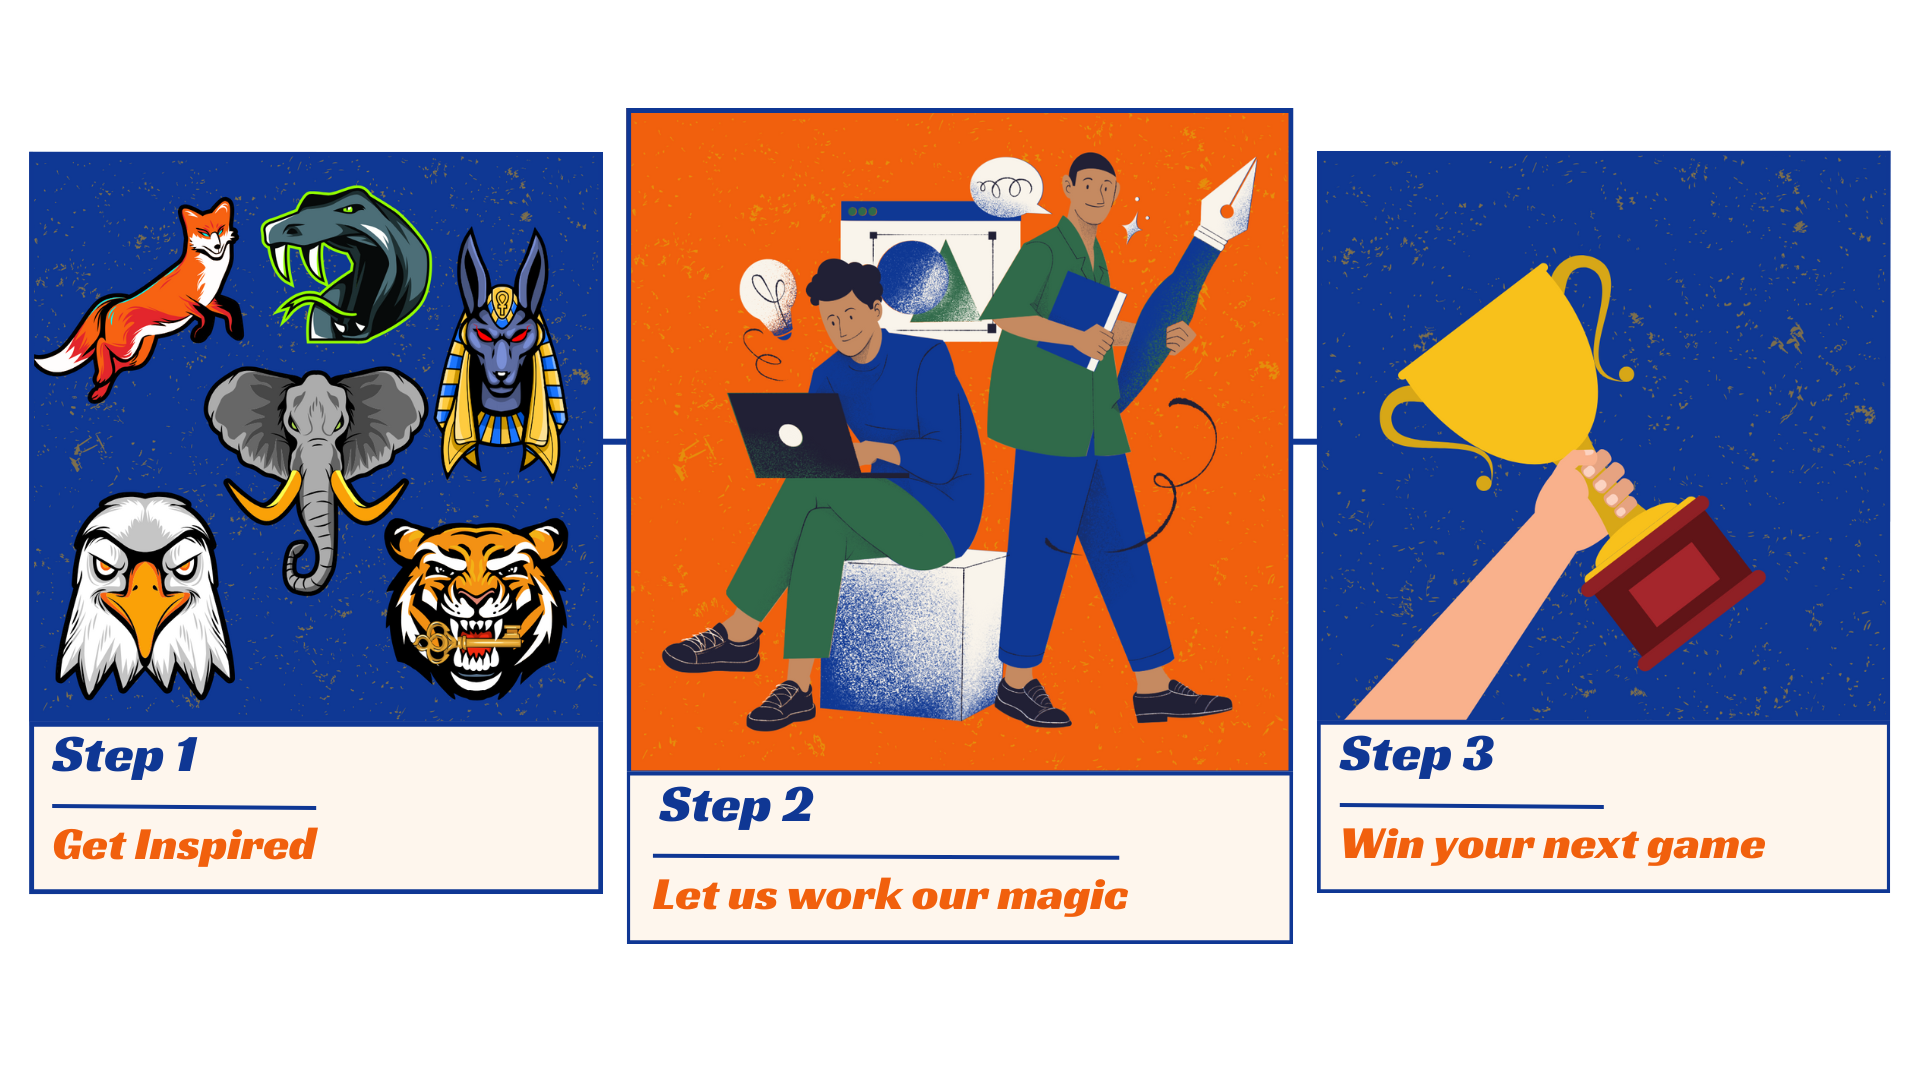
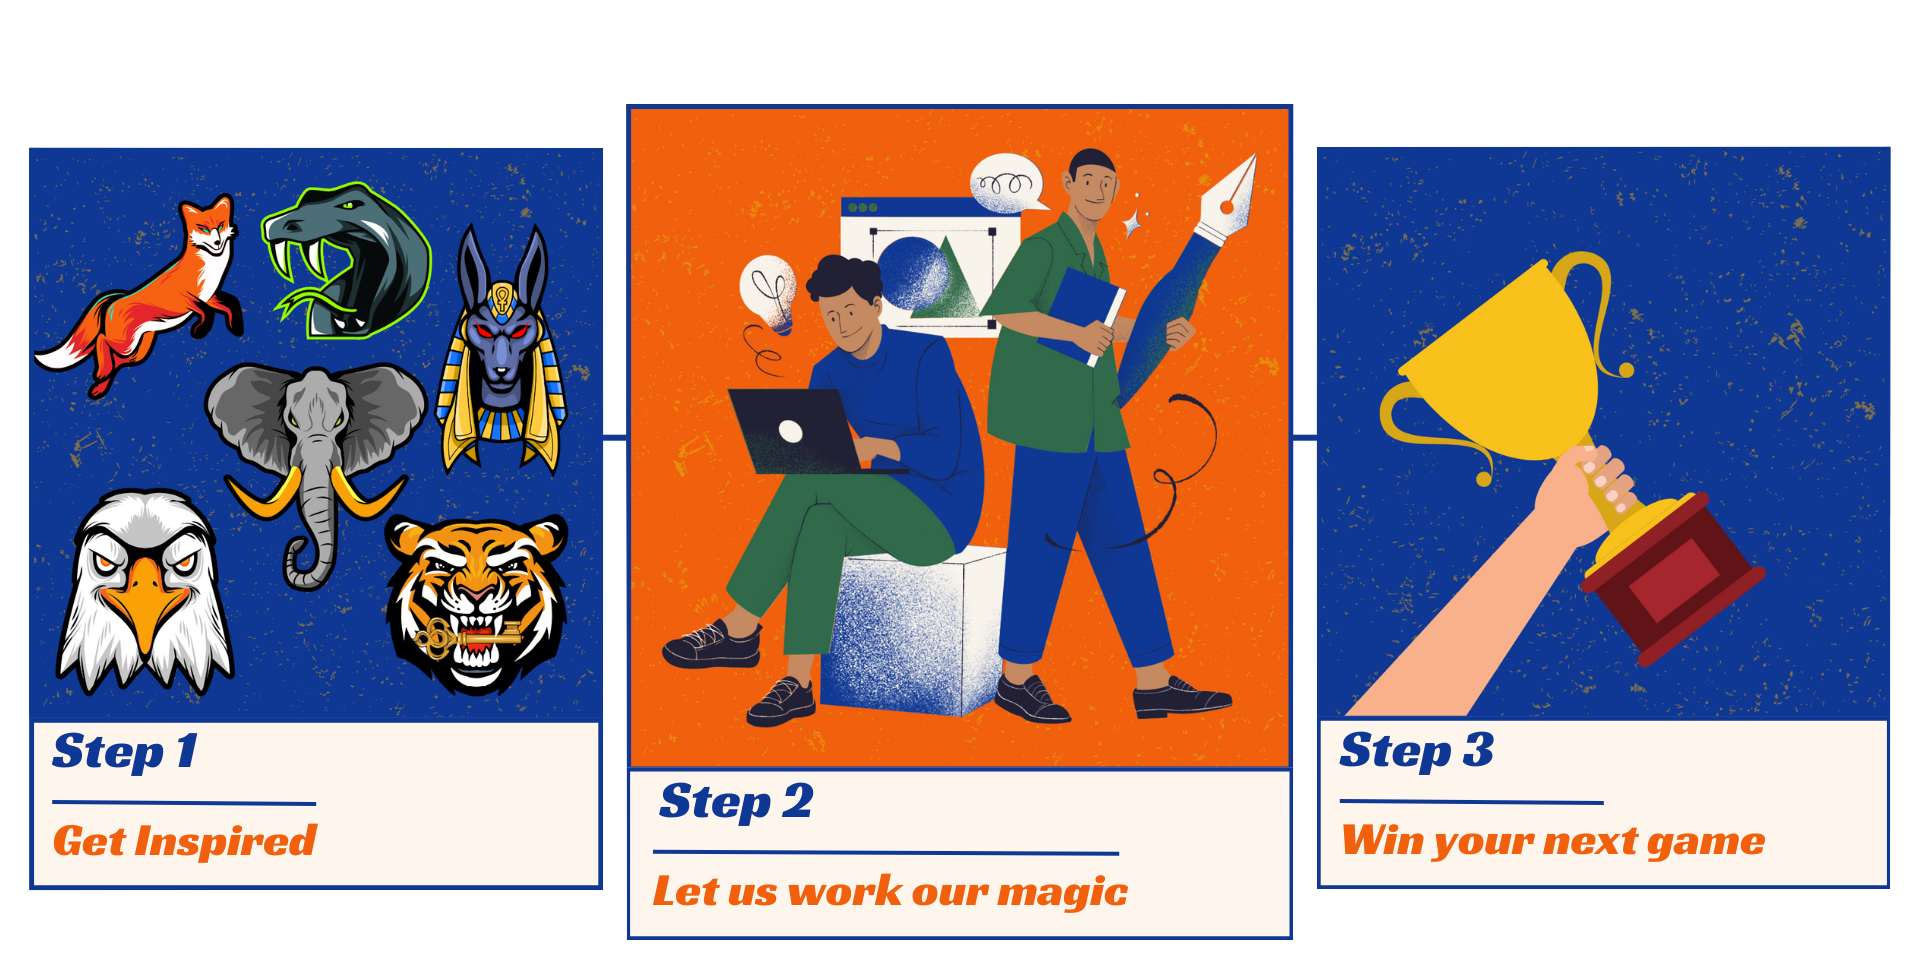
update index 26 maart 22:00

diff --git a/index.html b/index.html
@@ -28,24 +28,14 @@
               <a class="nav-link" href="index.html">Home</a>
             </li>
             <li class="nav-item">
-              <a class="nav-link active" aria-current="page" href="example.html">Example</a>
-            </li>
-            <li class="nav-item dropdown">
-              <a class="nav-link dropdown-toggle" href="#" id="navbarDropdown" role="button" data-bs-toggle="dropdown" aria-expanded="false">
-                UX Patterns
-              </a>
-              <ul class="dropdown-menu" aria-labelledby="navbarDropdown">
-                <li><a class="dropdown-item" href="hero.html">Hero Section</a></li>
-                <li><a class="dropdown-item" href="carousel.html">Carousel</a></li>
-                <li><hr class="dropdown-divider"></li>
-                <li><a class="dropdown-item" href="two-columns.html">Two-column Layout</a></li>
-                <li><a class="dropdown-item" href="cards.html">Cards</a></li>
-              </ul>
             </li>
             <li class="nav-item">
-              <a class="nav-link" href="https://buas-media-interactive.github.io/prj4-guide/" target="_blank">PRJ4 Guide</a>
+              <a class="nav-link" href="https://buas-media-interactive.github.io/prj4-guide/" target="_blank">About us</a>
             </li>
             <li class="nav-item">
+              <a class="nav-link" href="corporate.html">Get inspired</a>
+            </li>
+			   <li class="nav-item">
               <a class="nav-link" href="corporate.html">Corporate</a>
             </li>
           </ul>
@@ -94,71 +84,91 @@
         </div>
     </div>
 	
-	<img src="images/stepst.png"> 
+<img src="images/stepst.png" alt="the steps" class="stepst-img">
+
 	
 	 <div class="container pt-3 pb-2">
       <div class="row justify-content-center">
         <div class="col-12 col-md-10 col-lg-8 col-xl-6 text-center">
 			
-		<br>
-          <h2>Our vision</h2>
+           <h2 class="special-heading" >Our vision</h2>
+			
+			<br>
+			
           <p>
           We Roar, We Score! A team without spirit is just a group of players. That’s where we come in! TeamBeast brings hype, pride, and power, because every club deserves to stand out, loud and proud! &nbsp; </p>
         </div>
       </div>
     </div>
-	  
-	    <!-- Meet the Team -->
-	  <section class="team-section py-5">
+	  <br> <br>  
+	
+	<section class="contact-instagram">
     <div class="container">
-        <h2 class="text-center mb-4">Meet the Team</h2>
+        <a href="https://www.instagram.com/teambeastofficial_" target="_blank" class="instagram-icon">
+            <img src="images/instagram.svg" alt="Instagram">
+        </a>
+        <div class="contact-text">
+            <p>Want to bring your team to the next level?</p>
+            <p>DM us on Instagram!</p>
+        </div>
+    </div>
+</section>
+	
+	    <!-- Meet the Team -->
+<section class="team-section py-5">
+    <div class="container">
+        <h2 class="special-heading">Meet the Team</h2>
+		<br>
         <div class="row">
 
             <!-- Team Member 1 -->
             <div class="col-lg-3 col-md-6">
                 <div class="team-member text-center">
-                    <img src="images/iris.jpg" alt="John Smith" class="team-img mb-3">
-                    <h5>Iris van Groenestijn&nbsp;</h5>
+                    <img src="images/iris.jpg" alt="Iris van Groenestijn" class="team-img mb-3">
+                    <h5>Iris van Groenestijn</h5>
                     <p class="text-muted">CEO and Founder</p>
-                    <button class="contact-btn">Contact</button>
+                    <a href="https://instagram.com/irisvangroenestijn?igsh=MWh6bm5mZDlpa3hoYw%3D%3D&utm_source=qr" class="contact-btn">Contact</a>
                 </div>
             </div>
+			
+			<!-- Team Member 3 -->
+            <div class="col-lg-3 col-md-6">
+                <div class="team-member text-center">
+                    <img src="images/Luna.png" alt="Luna van der Windt" class="team-img mb-3">
+                    <h5>Luna van der Windt</h5>
+                    <p class="text-muted">Lead Developer</p>
+                    <a href="https://" class="contact-btn">Contact</a>
+                </div>
+            </div>
+
 
             <!-- Team Member 2 -->
             <div class="col-lg-3 col-md-6">
                 <div class="team-member text-center">
-                    <img src="images/merel.jpg" alt="Lisa Johnson" class="team-img mb-3">
-                    <h5>Merel Enitus&nbsp;</h5>
+                    <img src="images/merel.jpg" alt="Merel Enitus" class="team-img mb-3">
+                    <h5>Merel Enitus</h5>
                     <p class="text-muted">Marketing Head</p>
-                    <button class="contact-btn">Contact</button>
+                    <a href="https://yourwebsite.com/contact?person=merel" class="contact-btn">Contact</a>
                 </div>
             </div>
 
-            <!-- Team Member 3 -->
-            <div class="col-lg-3 col-md-6">
-                <div class="team-member text-center">
-                    <img src="images/Luna.png" alt="James Brown" class="team-img mb-3">
-                    <h5>Luna van der Windt&nbsp;</h5>
-                    <p class="text-muted">Lead Developer</p>
-                    <button class="contact-btn">Contact</button>
-                </div>
-            </div>
-
+            
             <!-- Team Member 4 -->
             <div class="col-lg-3 col-md-6">
                 <div class="team-member text-center">
-                    <img src="images/max.jpg" alt="Sophia White" class="team-img mb-3">
-                    <h5>Max Heijnsdijk&nbsp;</h5>
+                    <img src="images/max.jpg" alt="Max Heijnsdijk" class="team-img mb-3">
+                    <h5>Max Heijnsdijk</h5>
                     <p class="text-muted">UI/UX Designer</p>
-                    <button class="contact-btn">Contact</button>
+                    <a href="https://yourwebsite.com/contact?person=max" class="contact-btn">Contact</a>
                 </div>
             </div>
 
         </div>
     </div>
 </section>
- <!-- End meet the Team -->
-	  
+<!-- End Meet the Team -->
+	<br> <br> 
+
 	   <!-- Testimonials  -->
    <section class="testimonial-section py-5">
     <div class="container">
@@ -174,12 +184,13 @@
                 <div class="carousel-item active">
                     <div class="row align-items-center">
                         <div class="col-md-3 text-center">
-                            <img src="https://via.placeholder.com/100" alt="John Smith" class="testimonial-img">
+                            <img src="images/testimonialcoach.jpg" alt="John Smith" class="testimonial-img">
                         </div>
                         <div class="col-md-9">
-                            <p class="testimonial-text"><i class="fas fa-quote-left"></i> Amazing service! My website works perfectly. <i class="fas fa-quote-right"></i></p>
+                            <p class="testimonial-text"><i class="fas fa-quote-left"></i> "Team spirit is everything, and TeamBeast helped us take it to the next level! The custom mascot they designed is not only fun but also represents our team’s values perfectly!"
+								<i class="fas fa-quote-right"></i></p>
                             <h5 class="testimonial-name">John Smith</h5>
-                            <p class="text-white-50">CEO, Tech Corp</p>
+                            <p class="text-white-50">Hockey Choach</p>
                         </div>
                     </div>
                 </div>
@@ -188,12 +199,13 @@
                 <div class="carousel-item">
                     <div class="row align-items-center">
                         <div class="col-md-3 text-center">
-                            <img src="https://via.placeholder.com/100" alt="Lisa Johnson" class="testimonial-img">
+                            <img src="images/testimonialgirl.jpg" alt="Lisa Johnson" class="testimonial-img">
                         </div>
                         <div class="col-md-9">
-                            <p class="testimonial-text"><i class="fas fa-quote-left"></i> Fast and friendly support. Highly recommended! <i class="fas fa-quote-right"></i></p>
+                            <p class="testimonial-text"><i class="fas fa-quote-left"></i>"I wanted something to bring our team together and make our games more exciting. TeamBeast created the perfect mascot that fits our team's personality."
+								<i class="fas fa-quote-right"></i></p>
                             <h5 class="testimonial-name">Lisa Johnson</h5>
-                            <p class="text-white-50">Marketing Manager, Creative Studio</p>
+                            <p class="text-white-50">Student Coach</p>
                         </div>
                     </div>
                 </div>
@@ -202,12 +214,12 @@
                 <div class="carousel-item">
                     <div class="row align-items-center">
                         <div class="col-md-3 text-center">
-                            <img src="https://via.placeholder.com/100" alt="James Brown" class="testimonial-img">
+                            <img src="images/testimonialboy.jpg" alt="James Brown" class="testimonial-img">
                         </div>
                         <div class="col-md-9">
-                            <p class="testimonial-text"><i class="fas fa-quote-left"></i> Thanks to this team, my project was a huge success! <i class="fas fa-quote-right"></i></p>
+                            <p class="testimonial-text"><i class="fas fa-quote-left"></i> "Our new mascot is amazing! It brings so much energy to every game, and the crowd loves it. Having our own unique mascot makes us feel like a real team—it’s like our secret weapon for team spirit!" <i class="fas fa-quote-right"></i></p>
                             <h5 class="testimonial-name">James Brown</h5>
-                            <p class="text-white-50">Lead Developer, Soft Solutions</p>
+                            <p class="text-white-50">Student</p>
                         </div>
                     </div>
                 </div>

diff --git a/css/iristwee.css b/css/iristwee.css
@@ -41,7 +41,26 @@ header {
 /* Styling for navigation bar */
 .navbar {
     background-color: #0F3894;
+    color: #FEF6ED; /* Ensuring text color is applied */
 }
+
+.navbar a {
+    color: #FEF6ED; /* Setting text color for navigation links */
+}
+
+.navbar a:hover {
+    color: #F1600D; /* Hover effect on navbar links */
+
+}
+
+/* Styling for stepst image */
+.stepst-img {
+    max-width: 80%; /* Adjust size relative to the container */
+    height: auto; /* Maintain aspect ratio */
+    display: block; /* Ensures proper alignment */
+    margin: 20px auto; /* Centers the image */
+}
+
 
 /* Hover effect on social media links */
 footer a:hover {
@@ -81,6 +100,7 @@ footer a:hover {
 /* Contact button styling */
 .contact-btn {
     background-color: #0F3894; /* Button color */
+	text-decoration: none;  /* Removes underline */
     color: white;
     border: none;
     padding: 10px 20px;
@@ -172,4 +192,45 @@ footer a:hover {
 
 .carousel-indicators .active {
     background-color: #ffffff;
+}
+
+.special-heading {
+    color: #306A4A; /* Pas de kleur aan */
+	text-align: center;
+}
+
+/* Instagram Contact Section */
+.contact-instagram {
+    background-color: #F1600D; /* Huisstijl kleur */
+    padding: 30px 0;
+    text-align: center;
+}
+
+.contact-instagram .container {
+    display: flex;
+    align-items: center;
+    justify-content: center;
+    gap: 150px; /* EXTREEM GROTE AFSTAND TUSSEN LOGO EN TEKST */
+    max-width: 1000px;
+    margin: 0 auto;
+    padding: 0 100px; /* Extra padding zodat ze nog verder uit elkaar staan */
+}
+
+.instagram-icon img {
+    width: 120px; /* Extra groot logo */
+    height: 120px;
+    transition: transform 0.3s ease-in-out;
+    filter: brightness(0) invert(1); /* Kleur naar #FEF6ED */
+}
+
+.instagram-icon img:hover {
+    transform: scale(1.1);
+}
+
+.contact-text {
+    text-align: left;
+    font-size: 1.5rem;
+    color: #FEF6ED;
+    font-weight: bold;
+    line-height: 1.0; 
 }
